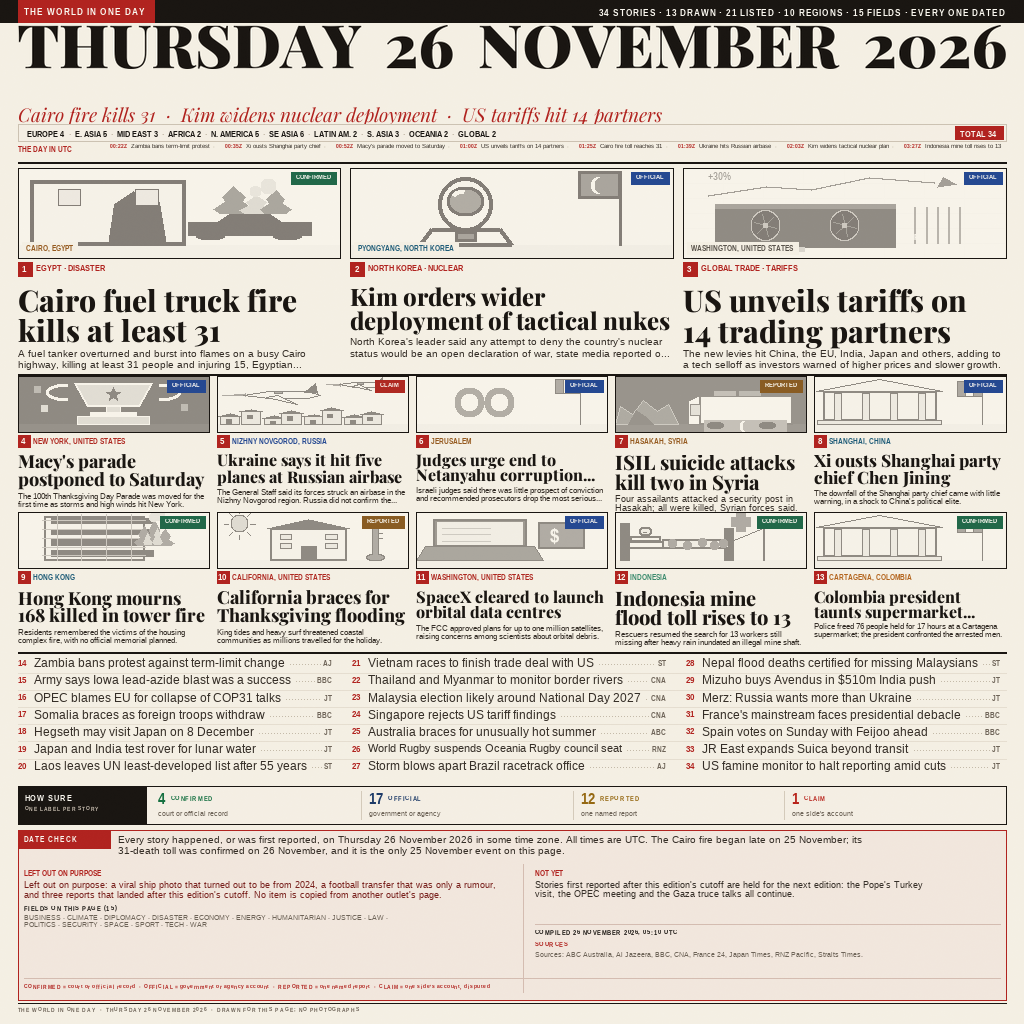
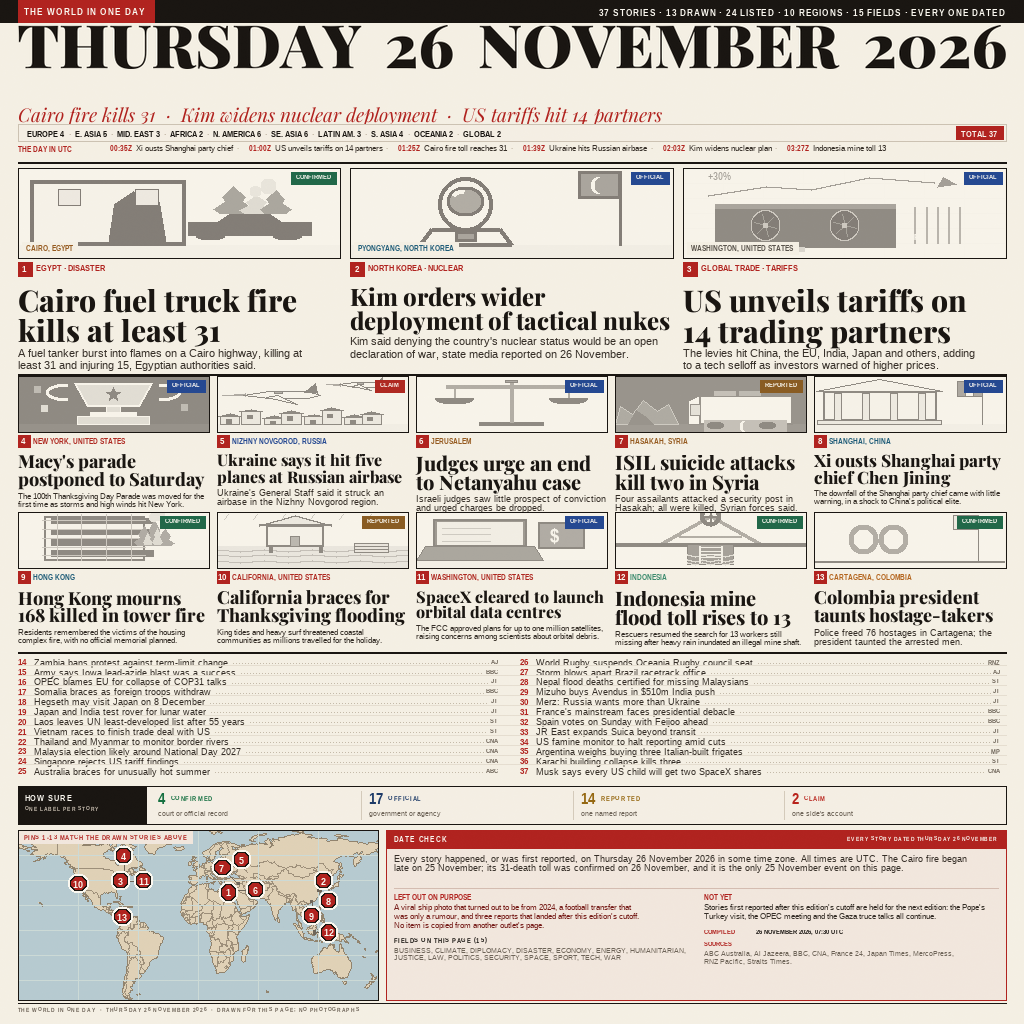
Publish 26 Nov page: 37 stories, 13 drawn scenes, map and date check

diff --git a/README.md b/README.md
@@ -4,10 +4,21 @@
 [![rank](https://make.fun/badge/news-image-20261126/SC0d3r/makefun-news-image-20261126/rank.svg)](https://make.fun/bounty/news-image-20261126/leaderboard?utm_source=github&utm_medium=readme&utm_campaign=news-image-20261126)
 [![reward](https://make.fun/badge/news-image-20261126/SC0d3r/makefun-news-image-20261126/reward.svg)](https://make.fun/bounty/news-image-20261126?utm_source=github&utm_medium=readme&utm_campaign=news-image-20261126)
 
-One front page for Thursday 26 November 2026: 34 dated stories from 10
-regions, 13 drawn scenes, a UTC timeline, a per-story confidence label, a
-full-width date check and a source list. The page is drawn as vector art by
-an AI agent; no photographs are used.
+One front page for Thursday 26 November 2026: 37 dated stories from 10
+regions, 13 drawn scenes, 24 one-line briefs, a numbered world map keyed to
+the drawn stories, a UTC timeline, a per-story confidence label, a full-width
+date check and a source list. The page is drawn as vector art by an AI agent;
+no photographs are used.
+
+## What is on the page
+
+- 3 illustrated leads, 10 illustrated mid cards and 24 numbered one-line
+  briefs, one continuous 1-37 series.
+- 13 numbered map pins, each tied to a drawn story by number.
+- A six-item UTC timeline, a region strip with counts that sum to 37, and a
+  date-check panel that states the cutoff, the exclusions and the sources.
+- Every story carries a status label: CONFIRMED, OFFICIAL, CLAIM or REPORTED.
+- 15 fields and 10 regions, with no photograph and no stock image anywhere.
 
 ## Run it
 
